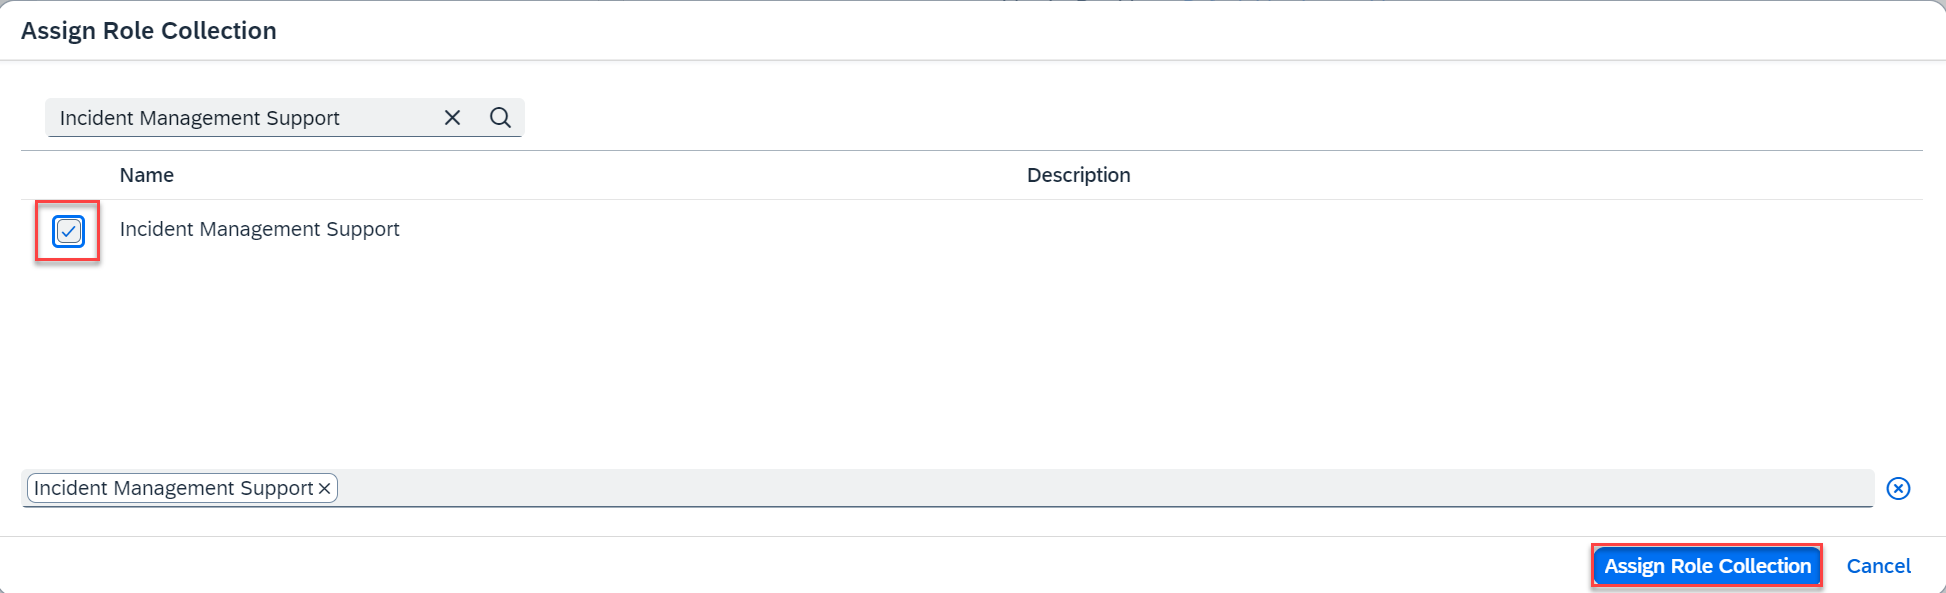
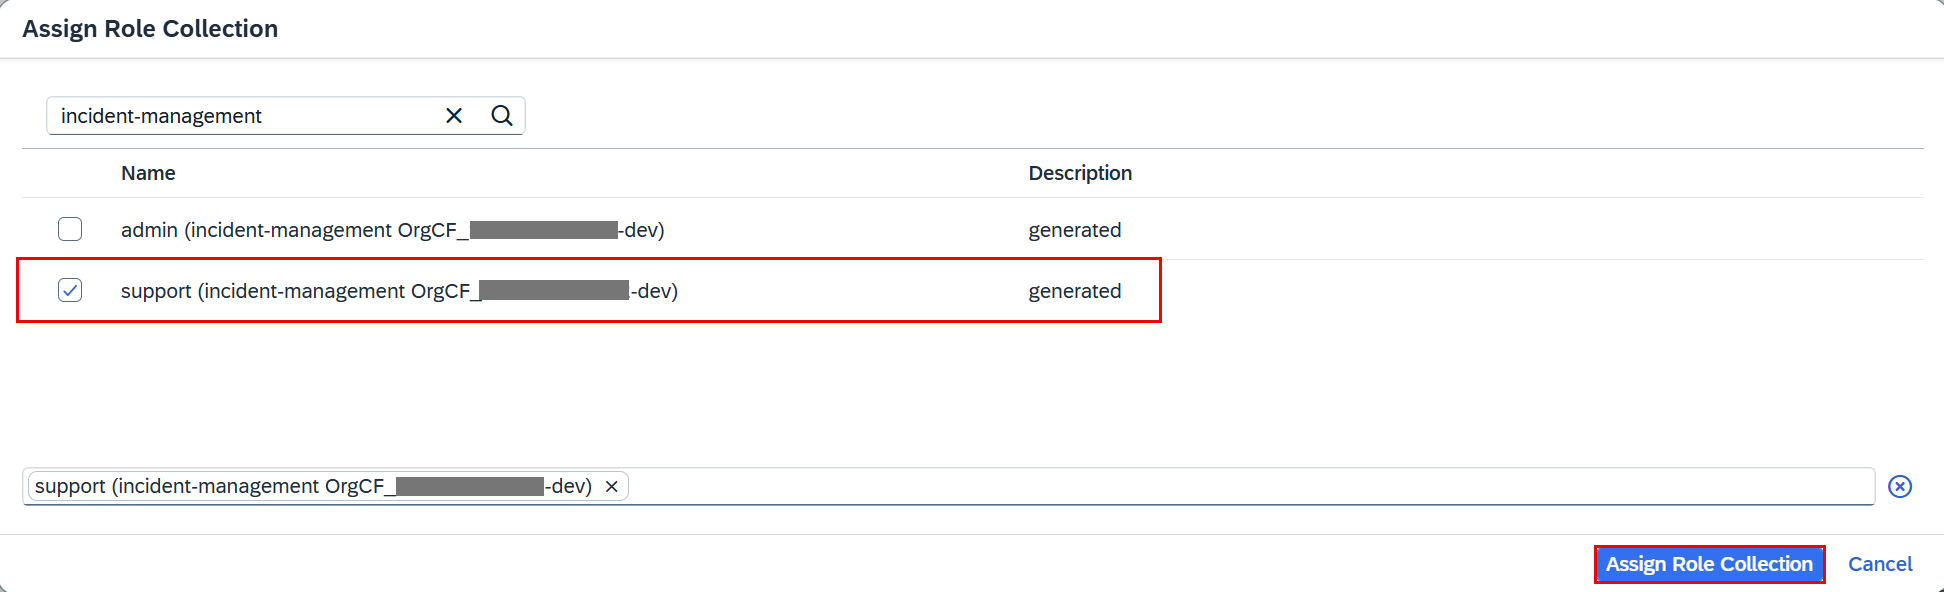
updates on tutorials

diff --git a/tutorials/user-role-assignment/user-role-assignment.md b/tutorials/user-role-assignment/user-role-assignment.md
@@ -1,6 +1,6 @@
 ---
 title: Assign the User Roles
-description: This tutorial shows you how to assign roles to users. 
+description: This tutorial shows you how to assign role collections to users. 
 parser: v2
 auto_validation: true
 time: 15
@@ -12,12 +12,12 @@ author_profile: https://github.com/slavipande
 
 ## You will learn
 
-- How to create and assign a role collection in the SAP BTP subaccount.
+- How to assign a role collection in the SAP BTP subaccount.
 
 
 ## Prerequisites
 
-- You have deployed your application in either the SAP BTP, Cloud Foundry runtime or the SAP BTP, Kyma runtime. For deploying in the SAP BTP, Cloud Foundry runtime, follow the steps in the [Deploy in SAP BTP, Cloud Foundry Runtime](deploy-to-cf) tutorial that is part of the [Deploy a Full-Stack CAP Application in SAP BTP, Cloud Foundry Runtime Following SAP BTP Developer’s Guide](https://developers.sap.com/group.deploy-full-stack-cap-application.html) tutorial group. For deploying in the SAP BTP, Kyma runtime, follow the steps in the [Deploy in SAP BTP, Kyma Runtime](deploy-to-kyma) tutorial that is part of the [Deploy a Full-Stack CAP Application in SAP BTP, Kyma Runtime Following SAP BTP Developer’s Guide](https://developers.sap.com/group.deploy-full-stack-cap-kyma-runtime.html) tutorial group.
+- You have deployed your application in either the SAP BTP, Cloud Foundry runtime or the SAP BTP, Kyma runtime. For deploying in the SAP BTP, Cloud Foundry runtime, follow the steps in the [Deploy in SAP BTP, Cloud Foundry Runtime](deploy-to-cf) tutorial that is part of the [Deploy a Full-Stack CAP Application in SAP BTP, Cloud Foundry Runtime Following SAP BTP Developer’s Guide](https://developers.sap.com/group.deploy-full-stack-cap-application.html) tutorial group. For deploying in the SAP BTP, Kyma runtime, follow the steps in the [Deploy in SAP BTP, Kyma Runtime](deploy-to-kyma) tutorial that is part of the [Deploy a Full-Stack CAP Application in SAP BTP, Kyma Runtime Following SAP BTP Developer’s Guide](https://developers.sap.com/group.deploy-full-stack-cap-kyma-runtime.html) tutorial group. 
 - You have an [enterprise global account](https://help.sap.com/docs/btp/sap-business-technology-platform/getting-global-account#loiod61c2819034b48e68145c45c36acba6e) in SAP BTP. To use services for free, you can sign up for an SAP BTPEA (SAP BTP Enterprise Agreement) or a Pay-As-You-Go for SAP BTP global account and make use of the free tier services only. See [Using Free Service Plans](https://help.sap.com/docs/btp/sap-business-technology-platform/using-free-service-plans?version=Cloud).
 - You have a platform user. See [User and Member Management](https://help.sap.com/docs/btp/sap-business-technology-platform/user-and-member-management).
 - You are an administrator of the global account in SAP BTP.
@@ -31,45 +31,22 @@ author_profile: https://github.com/slavipande
 
 > This tutorial follows the guidance provided in the [SAP BTP Developer's Guide](https://help.sap.com/docs/btp/btp-developers-guide/what-is-btp-developers-guide).
 
-### Create a role collection and add role
-
-1. Open the SAP BTP cockpit and navigate to your subaccount.
-
-1. Choose **Security** &rarr; **Role Collections**, and then choose **Create**.
-
-      <!-- border; size:540px --> ![Role Collections](./create-role-collection.png)
-
-2. In the **Create Role Collection** popup, enter **Incident Management Support** in the **Name** field and choose **Create**.
-
-      <!-- border; size:540px --> ![Create Role Collection](./create-role-collection-popup.png)
-
-3. Choose the role collection **Incident Management Support** from the list of role collections and choose **Edit** on the right.
-
-      <!-- border; size:540px --> ![Edit Role Collection](./edit-role-collection.png)
-
-4. Open the value help in the **Role Name** field.
-
-      <!-- border; size:540px --> ![Value Help](./role-value-help.png)
-
-5. Search for the role **support**, select it, and choose **Add**.
-
-      <!-- border; size:540px --> ![Add Role](./add-role.png)
-
-6. Choose **Save**.
 
 ### Assign a role collection to a user
 
 
-1. Choose **Security** &rarr; **Users**, and then choose a user from the list.
+1. Choose **Security** &rarr; **Users**, and then choose a user from the list. 
 
 2. Under **Role Collections** on the right, choose **Assign Role Collection**.
 
       <!-- border; size:540px --> ![role collection](./rolecollection1.png)
 
-2. In the **Assign Role Collection** dialog, select the **Incident Management Support** role collection and choose **Assign Role Collection**.
+      The role collections **admin** and **support** are automatically generated during deployment.
+
+2. In the **Assign Role Collection** dialog, select the **support** role collection and choose **Assign Role Collection**.
 
       <!-- border; size:540px --> ![role collection](./rolecollection11.png)
 
-      You have assigned the **Incident Management Support** role collection to your user.
+      You have assigned the role collection to your user.
 
 > You might need to log out and log back in to make sure your new role collection is taken into account.

diff --git a/tutorials/add-authorization/add-authorization.md b/tutorials/add-authorization/add-authorization.md
@@ -98,10 +98,6 @@ CAP offers a possibility to add local users for testing as part of the `cds` con
             "auth": {
               "kind": "mocked",
               "users": {
-                "incident.support@tester.sap.com": {
-                  "password": "initial",
-                  "roles": ["support"]
-                },
                 "alice": {
                   "roles": ["support"]
                 },
@@ -117,9 +113,8 @@ CAP offers a possibility to add local users for testing as part of the `cds` con
 
     Each user entry is part of the `users` object. The key is the `id` of the user and they can have different properties. For this scenario, you define a `password` and an array of roles.
   
-    You have added three users:
+    You have added two users:
 
-    - `incident.support@tester.sap.com` with the `support` role and the `initial` password
     - `alice` with the `support` role and no password
     - `bob` with the `support` role and no password
 
@@ -178,11 +173,11 @@ When accessing the **Incidents** service of the **Incident Management** applicat
     >2. Choose **Fiori: Open Application Info**.
 
 
-3. In the **Username** field of the auth popup, enter `incident.support@tester.sap.com`.
+3. In the **Username** field of the auth popup, enter `alice`.
 
-4. In the **Password** field, enter `initial`.
+4. Leave the **Password** field empty.
 
-    <!-- border; size:540px --> ![Sign In Incident Management Application](./local-login.png)
+    <!-- border; size:540px --> ![Sign In Incident Management Application](./local-login-java.png)
 
     You can now access the **Incident Management** application.
 

diff --git a/tutorials/build-cap-app/build-cap-app.md b/tutorials/build-cap-app/build-cap-app.md
@@ -511,22 +511,22 @@ Replace the respective generated CSV templates with the following content:
 - `db/data/sap.capire.incidents-Status.csv`:
 
     ```csv
-    code;descr;criticality
-    N;New;3
-    A;Assigned;2
-    I;In Process;2
-    H;On Hold;3
-    R;Resolved;2
-    C;Closed;4
+    code,descr,criticality
+    N,New,3
+    A,Assigned,2
+    I,In Process,2
+    H,On Hold,3
+    R,Resolved,2
+    C,Closed,4
     ```
 
 - `db/data/sap.capire.incidents-Urgency.csv`:
 
     ```csv
-    code;descr
-    H;High
-    M;Medium
-    L;Low
+    code,descr
+    H,High
+    M,Medium
+    L,Low
     ```
 
     > Notice that `cds add data` created eight files, while we're adding data to just six of them. We're leaving the files `sap.capire.incidents-Status.texts.csv` and `sap.capire.incidents-Urgency.texts.csv` empty because they hold translated text that will be filled once the application is localized and translations are created.

diff --git a/tutorials/prep-for-prod/prep-for-prod.md b/tutorials/prep-for-prod/prep-for-prod.md
@@ -654,3 +654,9 @@ You should get an output like:
 ```
 
 [OPTION END]
+
+### Deployment Options
+
+Now that you have prepared your CAP application for deployment, you can choose from the following deployment options:
+- Follow the tutorials in the [Deploy a Full-Stack CAP Application in SAP BTP, Cloud Foundry Runtime Following SAP BTP Developer’s Guide](https://developers.sap.com/group.deploy-full-stack-cap-application.html) group to deploy the application in the SAP BTP, Cloud Foundry runtime.
+- Follow the tutorials in the [Deploy a Full-Stack CAP Application in SAP BTP, Kyma Runtime Following SAP BTP Developer’s Guide](https://developers.sap.com/group.deploy-full-stack-cap-kyma-runtime.html) group to deploy the application in the SAP BTP, Kyma runtime.
